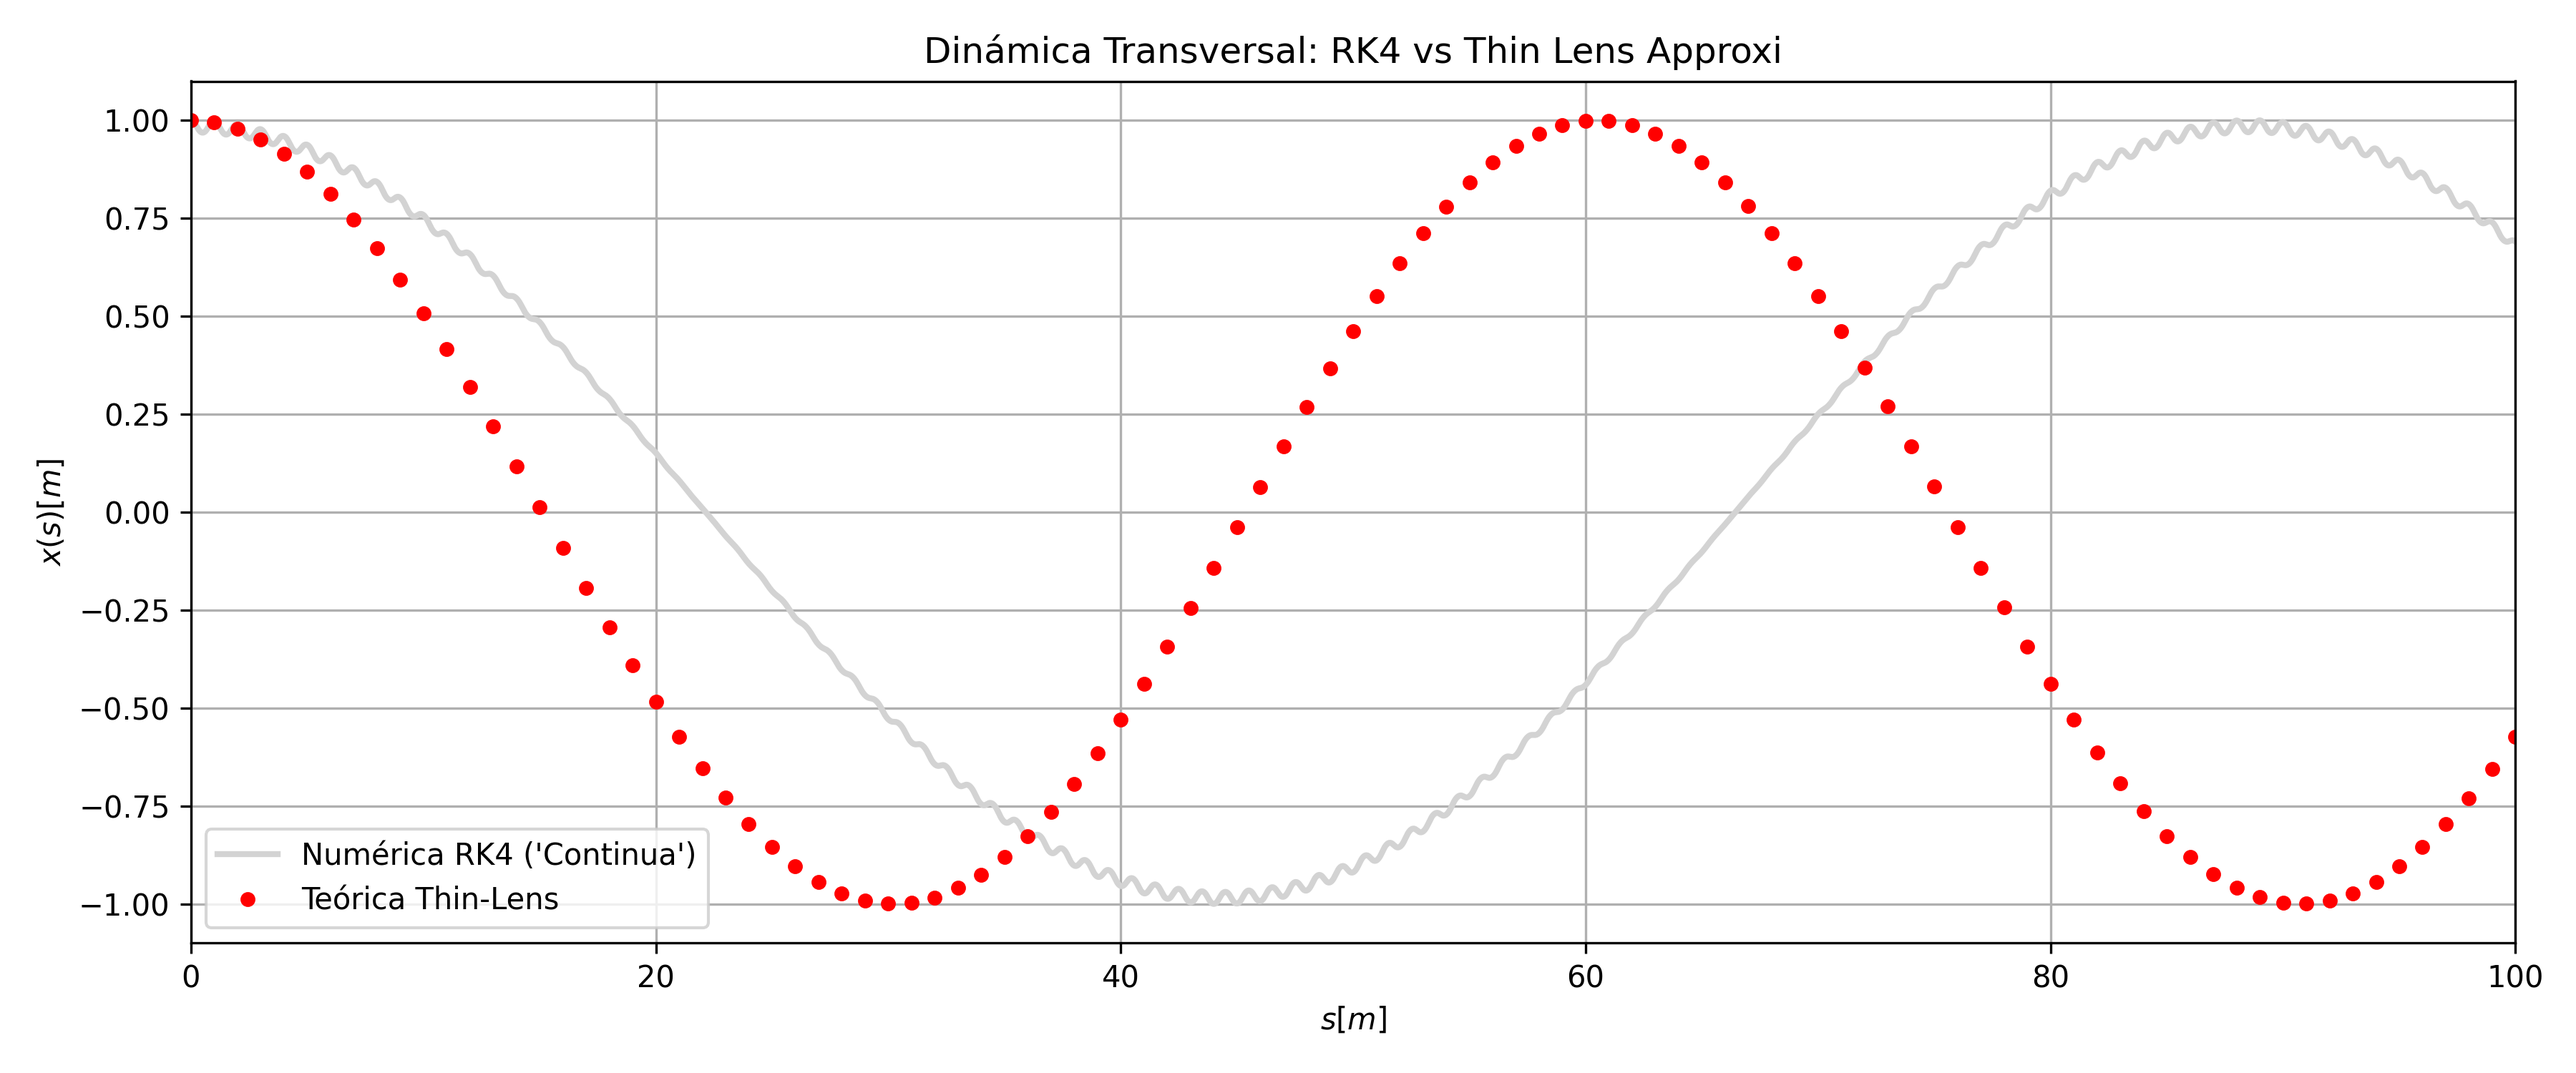
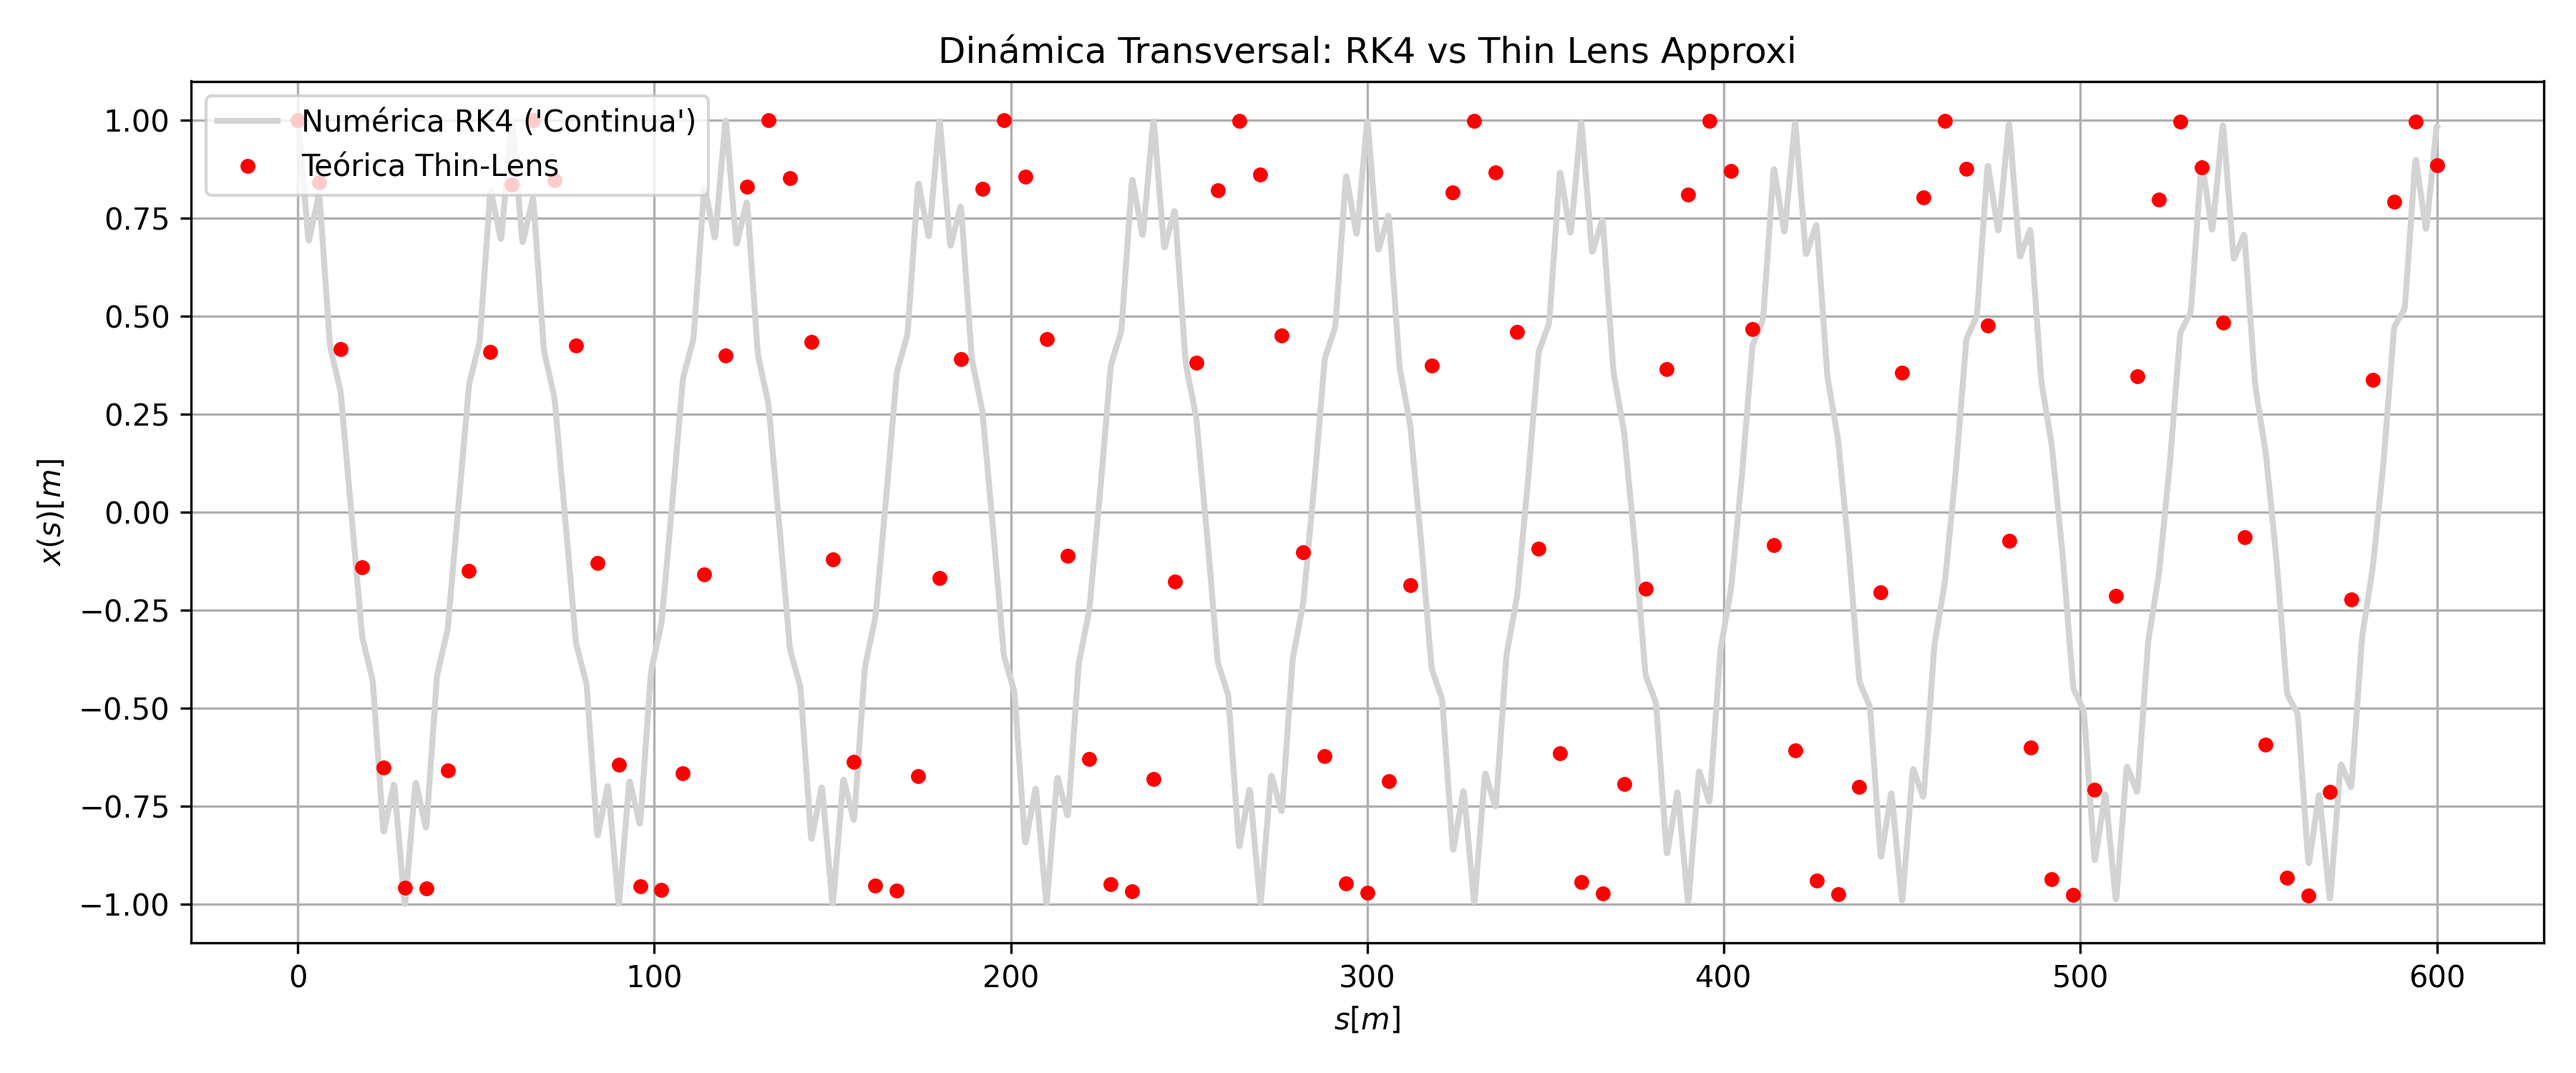
correcciones

diff --git a/Code/MAIN/HILLS/main.py b/Code/MAIN/HILLS/main.py
@@ -9,22 +9,24 @@ from Poincaré import plot_poincare1,plot_poincareδ
 from numericalstability import numstability
 from plotting import save_figure
 from offmomentum import trayectoriasb, trayectoriasδ,colormapApertura
-from Slide20validation import comparativa_trayectorias
+# from Slide20validation import comparativa_trayectorias, plot_poincareTHEO
 
 class Parametroslattice:
     def __init__(self):
 
         # Sslide 19
-        self.k_val= 0.519 # Es la fuerza de los cuadrupolos(1/m2)
-        self.lq1= 0.4   #Longitud del cuadrupolo (m)
+        self.k_val= 0.541 # Es la fuerza de los cuadrupolos(1/m2)
+        self.lq1 = 0.4   #Longitud del cuadrupolo (m)
         self.l_i = 0     # Pos. entrada (m)
-        self.Lc= 1      #Longitud de la celda/periodo (m)
+        self.Ld  = 0.55*2+1.5      
+        self.Lc  = self.Ld*2+self.lq1*2   #Longitud de la celda/periodo (m)
 
         #Slide 20
         self.delta= 0 #Error de momento 𝛿
-        self.ld = 0.015 #Longitud del dipolo (m)
+        self.lD = 1.5 #Longitud del dipolo (m)
+        self.ld = 0.55 # Longitud del drift (m)
         self.rho= 3.81  # Radio de curvatura (m)
-        self.Lc2 = 5.8  # Longiutd de la celda(m)
+        self.Lc2 = 6  # Longiutd de la celda(m)
 
 
 p= Parametroslattice() #instanciamos los para´metros
@@ -36,7 +38,7 @@ ds= 0.00025 #Tamaño del paso (m)
 s_end1= 100* p.Lc
 s_vector1 = np.arange(0,s_end1 + ds, ds)
 
-s_end2 = 70*p.Lc2
+s_end2 = 50*p.Lc2
 s_vector2 = np.arange(0,s_end2+ ds, ds)
 
 
@@ -46,7 +48,7 @@ x0= 1e-3 # pos incial Xo
 dxds_0= 0 # aangulo inicial X'o
 y0= np.array([x0,dxds_0]) #Estado inicial del sistema, con pos y ángulo iniciales
 
-# iInner diametre of beam pipe
+# iInner diametre of beam pipe, 55.3 mmm. ref. para el latex guardada en la carpeta Bibliografñia, pag4.
 radiopipe= 0.02765 # inner radio en m
 
 # Se invocan los 'modelos'
@@ -58,9 +60,9 @@ modelo2 = hills_lineal_nonhom(k_func = lambda s: k20(s,p), inhomfunc= lambda s:i
 
 # Soluciones del Runge Kutta
 
-# y1 = rk4(modelo1, y0, s_vector1, ds)
+y1 = rk4(modelo1, y0, s_vector1, ds)
 # print(y1)
-y2= rk4(modelo2,y0, s_vector2, ds)
+# y2= rk4(modelo2,y0, s_vector2, ds)
 # print(y2)
 # y3 = rk4(modelo3, y0, s_vector2, ds)
 # print(y3)
@@ -82,14 +84,15 @@ y2= rk4(modelo2,y0, s_vector2, ds)
 
 # x0s= np.linspace(0,5e-3,3)
 
-# plot_poincare1(modelo1, [x0], s_vector1,ds,p.Lc, "Poincaré Hills Lineal Homogeneo.png",titulo= "Mapa de Poinca´re Slide 19 Rk4")
+plot_poincare1(modelo1, [x0], s_vector1,ds,p.Lc, "Poincaré Hills Lineal Homogeneo.png",titulo= "Mapa de Poinca´re Slide 19 Rk4")
 # plot_poincare1(modelo2, [x0], s_vector2, ds, p.Lc2, "Poincaré Hills Lineal Slide20.png", titulo= "Mapa de Poincaré Slide 20 RK4")
+# plot_poincareTHEO("poincare_map.txt")
 # plot_poincare1(modelo3, x0s,s_vector2, ds, p.Lc2,"Poincaré Hills No Lineal.png", titulo=  "Mapa de Poinaré: quads+BEND + off-momentum + sextupoles")
 
 
-#Mapa de Poincaré para distintos valores de delta usando tu función del módulo
-def actδ(nuevo_delta):
-    p.delta= nuevo_delta # acttualiza el parámetro delta directamente en el objeto
+# #Mapa de Poincaré para distintos valores de delta usandofunción del módulo
+# def actδ(nuevo_delta):
+#     p.delta= nuevo_delta # acttualiza el parámetro delta directamente en el objeto
 
 # valoresδ= [-0.2, -0.1, 0, 0.1, 0.2]
 
@@ -103,7 +106,7 @@ def actδ(nuevo_delta):
 
 
 # Validación Slide 20 vs RfTrack
-comparativa_trayectorias("transport_table.txt", s_vector2, y2[0, :], "RK4_vs_RFTrack_S20.png")
+# comparativa_trayectorias("transport_table.txt", s_vector2, y2[0, :], "RK4_vs_RFTrack_S20.png")
 
 
 
@@ -140,10 +143,10 @@ comparativa_trayectorias("transport_table.txt", s_vector2, y2[0, :], "RK4_vs_RFT
 
 # fig = plt.figure(figsize=(10, 3))
 # plt.step(s_plot, k_values_ncells, where='post')
-# plt.title("k(s) — n celdas")
-# plt.xlabel("s")
-# plt.ylabel("k")
-# plt.ylim(min(-1.5, np.min(k_values_ncells) - 0.1), max(1.5, np.max(k_values_ncells) + 0.1))
+# plt.title("k(s) Slide 20, 4 celdas",fontsize=12)
+# plt.xlabel("$s [m]$", fontsize=15)
+# plt.ylabel("$k(s) [m]$", fontsize=15)
+# plt.ylim(min(-0.6, np.min(k_values_ncells) - 0.1), max(0.6, np.max(k_values_ncells) + 0.1))
 # plt.grid(True)
 # plt.tight_layout()
 # save_figure("k(s) Slide 20")
@@ -172,44 +175,48 @@ comparativa_trayectorias("transport_table.txt", s_vector2, y2[0, :], "RK4_vs_RFT
 
 
 
- # #COMPARANDO VS SOL ANALÍTICA, Acelerador de la slide 19 (Thin lens approx., ver 7.3)
+# COMPARANDO VS SOL ANALÍTICA, Acelerador de la slide 19 (Thin lens approx., ver 7.3)
 
-# f = 1/ (p.k_val*p.lq1) # dsitancia focal
-# L= p.Lc /2 # longitud entre quads
+f1 = 2/ (p.k_val*p.lq1) # dsitancia focal de medio quadrupolo focalizador
+f2 = -f1
+L= p.Ld # longitud entre quads
+inv_f_star = (1 / f1) + (1 / f2) - (L / (f1*f2))
 
-# # Matriz de transferencia FODO cell
-# M = np.array([
-#     [1 - (L**2)/(2*f**2), 2*L*  (1+ L/(2*f))],
-#     [-(L/(2*f**2)) * (1 - L/(2*f)),  1- (L**2)/(2*f**2)]
-# ])
+f_star = 1 / inv_f_star
 
-# # se iniciazlian los vectores para guardar los estados al final de cada celda
-# s_discret = np.arange(0, s_end1+ p.Lc, p.Lc)
-# y_thin= np.zeros((2,len( s_discret)))
-# y_thin[:, 0] = y0
+# Matriz de transferencia FODO cell
 
-# # se multiplica la matriz celda a celda 
+M = np.array([
+    [1 - 2*L/f_star, 2*L*  (1- L/f2)],
+    [-2*(1-L/f1)/f_star,  1- 2*L/f_star]
+])
 
-# for i in range(1, len(s_discret)):
-#      y_thin[:, i] = M @ y_thin[:, i-1 ]
+# se iniciazlian los vectores para guardar los estados al final de cada celda
+s_discret = np.arange(0, s_end1+ p.Lc, p.Lc)
+y_thin= np.zeros((2,len( s_discret)))
+y_thin[:, 0] = y0
+
+# se multiplica la matriz celda a celda 
+
+for i in range(1, len(s_discret)):
+     y_thin[:, i] = M @ y_thin[:,i-1 ]
 
 
 
 
-# #PLOT PRAA COMPARAR
-# plt.figure(figsize=(12,5))
+#PLOT PRAA COMPARAR
+plt.figure(figsize=(12,5))
 
-# #esto es la numérica, la del rk4
-# plt.plot(s_vector1, y1[0, :], label='Numérica RK4 (\'Continua\')', color='lightgray', linewidth=2)
+#esto es la numérica, la del rk4
+plt.plot(s_vector1, y1[0, :] *1000, label='Numérica RK4 (\'Continua\')', color='lightgray', linewidth=2)
 
-# # Dibujamos los puntos 'discretos'(por tener un paso mucho más grueso) de la solución teórica
-# plt.plot(s_discret, y_thin[0, :], 'ro', markersize=4, label='Teórica Thin-Lens')
+# Dibujamos los puntos 'discretos'(por tener un paso mucho más grueso) de la solución teórica
+plt.plot(s_discret, y_thin[0, :]*1000, 'ro', markersize=4, label='Teórica Thin-Lens')
 
-# plt.title("Dinámica Transversal: RK4 vs Thin Lens Approxi")
-# plt.xlabel("s(m)")
-# plt.ylabel("x(s)")
-# plt.xlim(0, s_end1) 
-# plt.legend()
-# plt.grid(True)
-# save_figure(filename="RK4 vs Thin Lens Approxi.")
+plt.title("Dinámica Transversal: RK4 vs Thin Lens Approxi")
+plt.xlabel("$s [m]$")
+plt.ylabel("$x(s) [m]$") 
+plt.legend()
+plt.grid(True)
+save_figure(filename="RK4 vs Thin Lens Approxi.")
 

diff --git a/Code/MAIN/HILLS/auxiliar.py b/Code/MAIN/HILLS/auxiliar.py
@@ -1,6 +1,5 @@
 import numpy as np 
 
-
 def periodic_s(li, lf , f, s):
     if s >= li and s <= lf:
         return f(s)
@@ -26,7 +25,7 @@ def kquadb(s, p):
     return 0
 
 def kquadp(s, p):
-    # Usamos un lambda para inyectar 'p' en la función base
+    #Usamos un lambda para inyectar 'p' en la función base
     return periodic_s(p.l_i, p.Lc, lambda s_val: kquadb(s_val, p), s)
 
 def kquad(s, p):
@@ -39,21 +38,21 @@ def kquad(s, p):
 def k20b(s, p):
     if s >= p.l_i and s <= (p.l_i + p.lq1/2):
         return p.k_val * (1 - p.delta)
-    elif s > (p.l_i + p.lq1/ 2) and s < (p.Lc2/4 - p.ld/2):
+    elif s > (p.l_i + p.lq1/ 2) and s < (p.l_i + p.lq1/ 2 + p.ld):
         return 0
-    elif s >= (p.Lc2/4 - p.ld/2) and s <= (p.Lc2/4 + p.ld/2):
+    elif s >= (p.l_i + p.lq1/ 2 + p.ld) and s <= (p.l_i + p.lq1/ 2 + p.ld + p.lD):
         return 1 / p.rho**2
-    elif s > (p.Lc2/4 + p.ld/2) and s < (p.Lc2/2 - p.lq1/2):
+    elif s > (p.l_i + p.lq1/ 2 + p.ld + p.lD) and s < (p.l_i + p.lq1/ 2 + p.ld + p.lD + p.ld):
         return 0
-    elif s >= (p.Lc2/2 - p.lq1/2) and s <= (p.Lc2/2 + p.lq1/2):
+    elif s >= (p.l_i + p.lq1/ 2 + 2*p.ld + p.lD) and s <= (p.l_i + p.lq1/ 2 + 2*p.ld + p.lD + p.lq1):
         return -p.k_val * (1 - p.delta)
-    elif s > (p.Lc2/2 + p.lq1/2) and s < (3*p.Lc2/4 - p.ld/2):
+    elif s > (p.l_i + p.lq1/ 2 + 2*p.ld + p.lD + p.lq1) and s < (p.l_i + p.lq1/ 2 + 3*p.ld + p.lD + p.lq1):
         return 0
-    elif s >= (3*p.Lc2/4 - p.ld/2) and s <= (3*p.Lc2/4 + p.ld/2):
+    elif s >= (p.l_i + p.lq1/ 2 + 3*p.ld + p.lD + p.lq1) and s <= (p.l_i + p.lq1/ 2 + 3*p.ld + p.lD + p.lq1 + p.lD):
         return 1 / p.rho**2
-    elif s > (3*p.Lc2/4 + p.ld/2) and s < (p.Lc2 - p.lq1/2):
+    elif s > (p.l_i + p.lq1/ 2 + 3*p.ld + p.lD + p.lq1 + p.lD) and s < (p.l_i + p.lq1/ 2 + 4*p.ld + p.lD + p.lq1 + p.lD):
         return 0
-    elif s >= (p.Lc2 - p.lq1/2) and s <= p.Lc2:
+    elif s >= (p.l_i + p.lq1/ 2 + 4*p.ld + p.lD + p.lq1 + p.lD) and s <= p.Lc2:
         return p.k_val * (1 - p.delta)
     return 0
 
@@ -66,19 +65,15 @@ def k20(s, p):
     return np.array([k20p(si, p) for si in s])
 
 
-# Término inhomogeneo de la ec. de hill
+# Término inhomogeneo de la ec. de hill corregido
 def inhomb(s, p):
-    if s >= p.l_i and s < (p.Lc2/4 - p.ld/2):
-        return 0
-    elif s >= (p.Lc2/4 - p.ld/2) and s <= (p.Lc2/4 + p.ld/2):
+
+    if s >= (p.l_i + p.lq1/ 2 + p.ld) and s <= (p.l_i + p.lq1/ 2 + p.ld + p.lD):
         return p.delta / p.rho
-    elif s > (p.Lc2/4 + p.ld/2) and s < (3*p.Lc2/4 - p.ld/2):
-        return 0
-    elif s >= (3*p.Lc2/4 - p.ld/2) and s <= (3*p.Lc2/4 + p.ld/2):
+    elif s >= (p.l_i + p.lq1/ 2 + 3*p.ld + p.lD + p.lq1) and s <= (p.l_i + p.lq1/ 2 + 3*p.ld + p.lD + p.lq1 + p.lD):
         return p.delta / p.rho
-    elif s > (3*p.Lc2/4 + p.ld/2) and s <= p.Lc2:
+    else:
         return 0
-    return 0
 
 def inhomp(s, p):
     return periodic_s(p.l_i, p.Lc2, lambda s_val: inhomb(s_val, p), s)

diff --git a/Code/MAIN/HILLS/Poincaré.py b/Code/MAIN/HILLS/Poincaré.py
@@ -3,7 +3,7 @@ import matplotlib.pyplot as plt
 from RK import rk4
 from plotting import save_figure
 
-def plot_poincare1(modeloEDO, x0_valores, s_vector, ds, periodo, filename, titulo="Mapa de Poincaré"):
+def plot_poincare1(modeloEDO, x0_valores, s_vector, ds, periodo, filename, titulo="Mapa de Poincaré", lim_x=(-1.1, 1.1), lim_y=(-0.21, 0.21)):
     
     """
     Crea y guarda un mapa de Poincaré para múltiples condiciones iniciales
@@ -16,9 +16,13 @@ def plot_poincare1(modeloEDO, x0_valores, s_vector, ds, periodo, filename, titul
      periodo:longitud de la celda para el muestreo
     """
     plt.figure(figsize=(9, 6))
-    plt.title(titulo)
-    plt.xlabel("$x$")
-    plt.ylabel("$x'$ ")
+    
+    # Igualamos el formato del título y las etiquetas a los del RF-Track para poder comparaor
+    plt.title(titulo, fontsize=18, pad=15)
+    plt.xlabel("$x$ [mm]", fontsize=16)
+    plt.ylabel("$x'$ [mrad]", fontsize=16)
+    plt.xticks(fontsize=14)
+    plt.yticks(fontsize=14)
 
     # Se calculan los índices de Poincaré, son los índices en el svector correspondientes a s= n*L, o múltiplos enteros de L (L, el periodo y longitud de la celda)
     pasosXperiodo = int(round(periodo/ ds))
@@ -31,19 +35,23 @@ def plot_poincare1(modeloEDO, x0_valores, s_vector, ds, periodo, filename, titul
         y= rk4(modeloEDO, y0_act, s_vector, ds) #u sando el modelo que le pasemos
 
        
-        x_p =y[0, indices_poincare]
-        xp_p = y[1,indices_poincare]
+        # Multiplicamos por 1000 para pasar de metros a mm y de radianes a mrad
+        x_p = y[0, indices_poincare] * 1000
+        xp_p = y[1, indices_poincare] * 1000
         
-        plt.scatter(x_p, xp_p, s=1.5, alpha =0.7, label=f"x_0 = {x0} m")
+        # Tamaño de punto s=15, para igualar a la teórica
+        plt.scatter(x_p, xp_p, s=15, alpha =0.7, label=f"x_0 = {x0 * 1000} mm")
     
-
+    # Fijamos los mismos límites de ejes para la comparativa
+    plt.xlim(lim_x)
+    plt.ylim(lim_y)
+    
     plt.gca().set_aspect('auto') 
     plt.grid(True, alpha=0.3, linestyle='--')
     plt.legend(loc='upper right', fontsize=10)
     
    
-    save_figure(filename) # se guarda la figura con la función 'save_figure' del módulo plotting.py 
-
+    save_figure(filename) # se guarda la figura con la función 'save_figure' del módulo plotting.py
 
 def plot_poincareδ(modeloEDO, y0,s_vector, ds, periodo, valsdelta, actualizardelta, apertura, filename = "Poincare Dispersion.png") :
     """

diff --git a/Code/MAIN/HILLS/Slide20validation.py b/Code/MAIN/HILLS/Slide20validation.py
@@ -2,7 +2,8 @@ import numpy as np
 import matplotlib.pyplot as plt
 from pathlib import Path
 
-# Intentamos importar tu función de guardado
+# Intentamos importar tu función de guardado, por si diera eerror.
+
 try:
     from plotting import save_figure
 except ImportError:
@@ -11,9 +12,8 @@ except ImportError:
         plt.show()
         plt.close()
 
-# --- CLAVE PARA EVITAR EL FileNotFoundError ---
-# Obtenemos la ruta exacta de la carpeta donde está guardado ESTE script
-DIRECTORIO_ACTUAL = Path(__file__).parent
+
+DIRECTORIO_ACTUAL= Path(__file__).parent
 
 def plottrayectoriaTHEO(archivo_txt, filename="RFTrack_Trayectoria.png"):
     """
@@ -49,14 +49,12 @@ def plottrayectoriaTHEO(archivo_txt, filename="RFTrack_Trayectoria.png"):
     save_figure(filename)
 
 
-def plot_poincareTHEO(archivo_txt, filename="RFTrack_Poincare.png"):
+def plot_poincareTHEO(archivo_txt, filename="RFTrack_Poincare.png", lim_x=(-1.1, 1.1), lim_y=(-0.21, 0.21)):
     """
-    lEe los puntos de RF-Track y dibuja el mapa de Poincaré (xx').
+    Lee los puntos de RF-Track y dibuja el mapa de Poincaré (xx').
     """
     ruta_completa = DIRECTORIO_ACTUAL/ archivo_txt
     
-
-
     data = np.loadtxt(ruta_completa, skiprows=1)
     
     x_mm = data[:, 0]
@@ -72,6 +70,10 @@ def plot_poincareTHEO(archivo_txt, filename="RFTrack_Poincare.png"):
     plt.xticks(fontsize=14)
     plt.yticks(fontsize=14)
     
+    # Fijamos los límites de los ejes para que ambas imágenes coincidan exactamente
+    plt.xlim(lim_x)
+    plt.ylim(lim_y)
+    
     plt.gca().set_aspect('auto')
     plt.grid(True, linestyle='--', alpha=0.5)
     plt.legend(fontsize=14, loc='upper right')
@@ -81,7 +83,7 @@ def plot_poincareTHEO(archivo_txt, filename="RFTrack_Poincare.png"):
 
 def comparativa_trayectorias(archivo_txt, s_rk4, x_rk4, filename="Comparativa_RK4_vs_RFTrack.png"):
     """
-    Superpone la trayectoria calculada con tu RK4 (en metros) 
+    Superpone la trayectoria calculada conel rk4 (en m)
     con la extraída de RF-Track (en milímetros).
     """
     ruta_completa = DIRECTORIO_ACTUAL / archivo_txt
